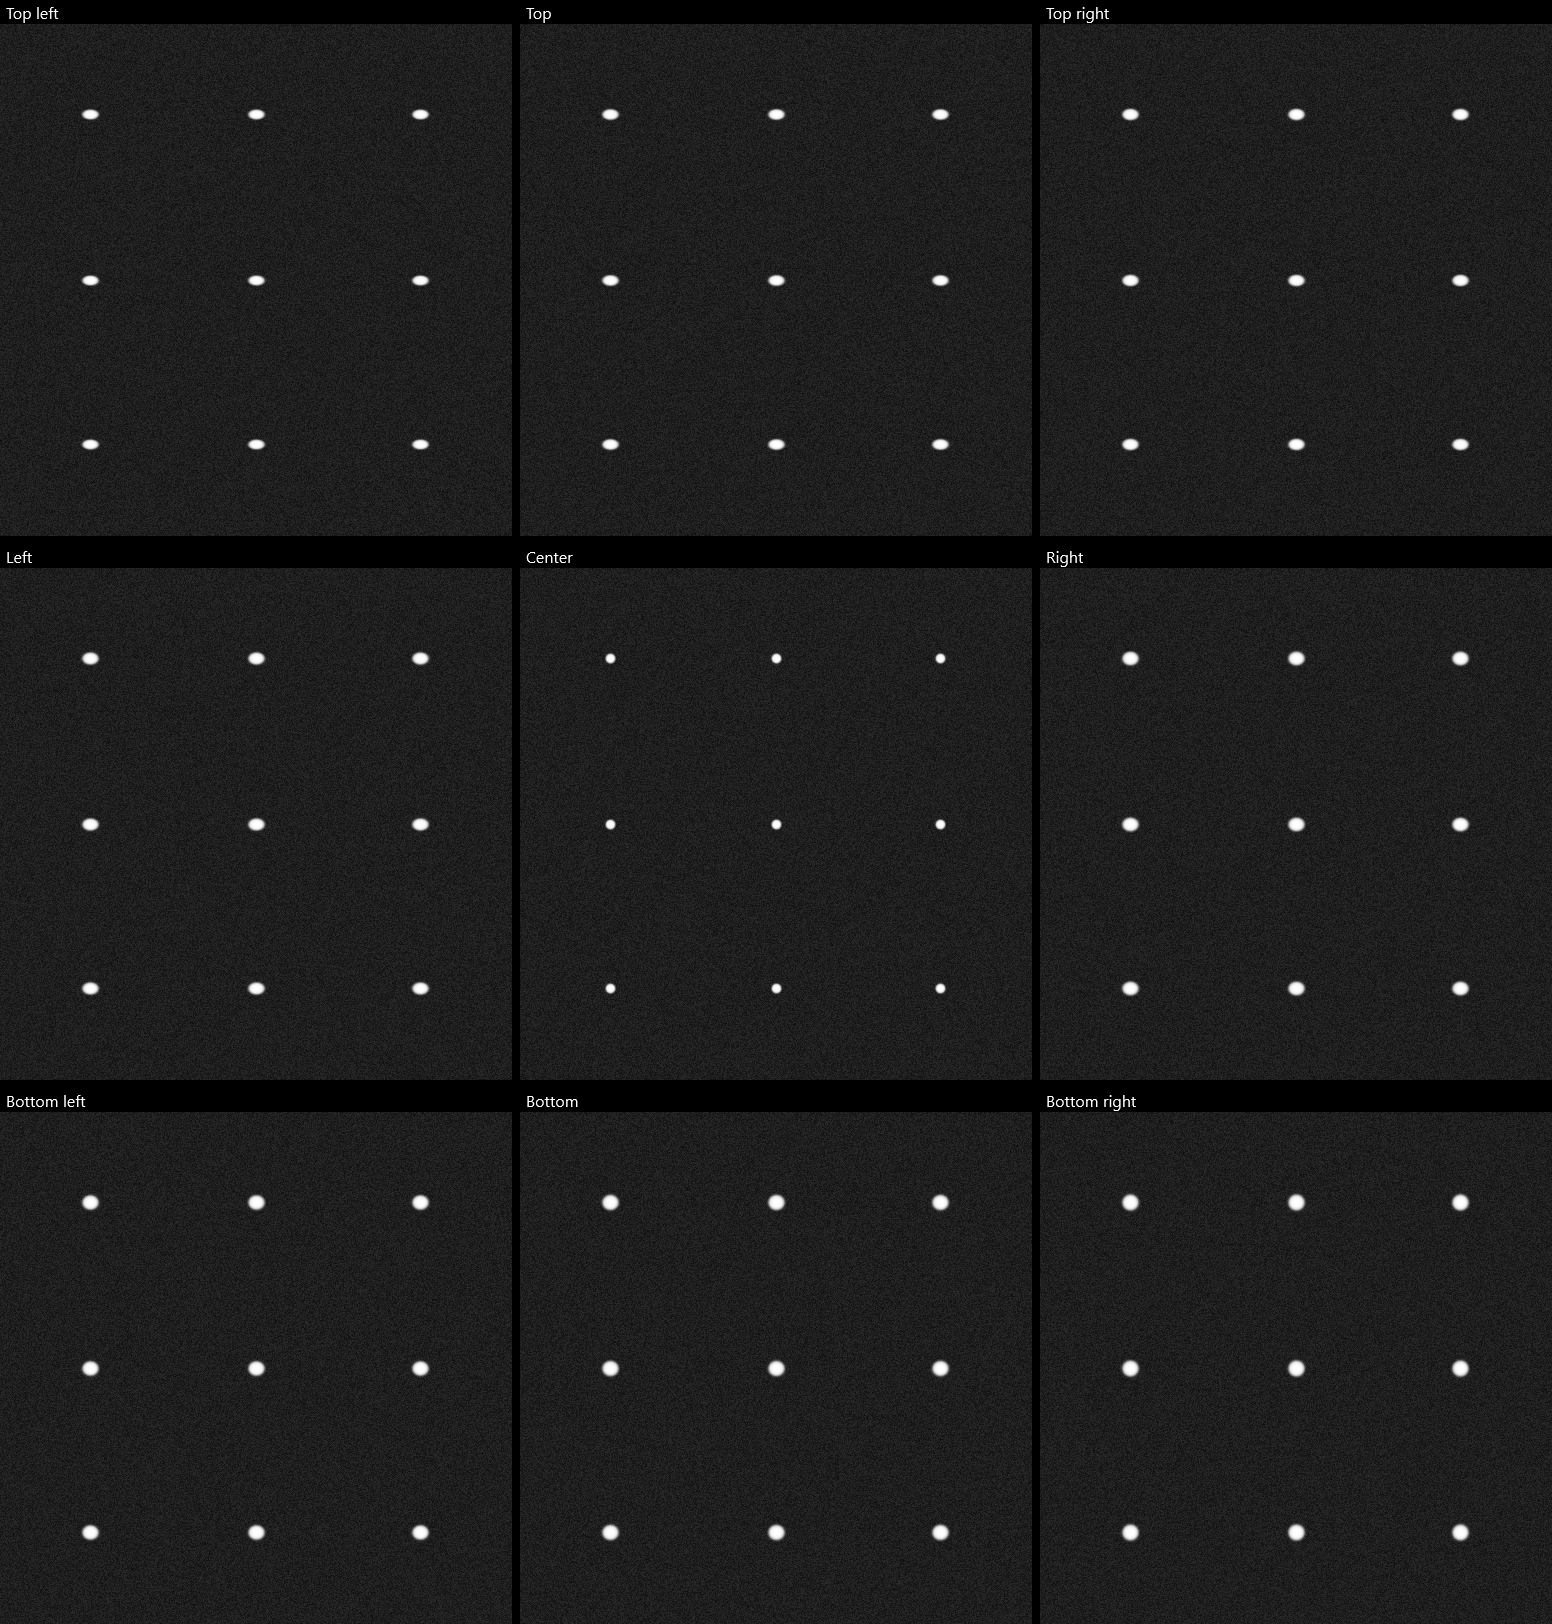
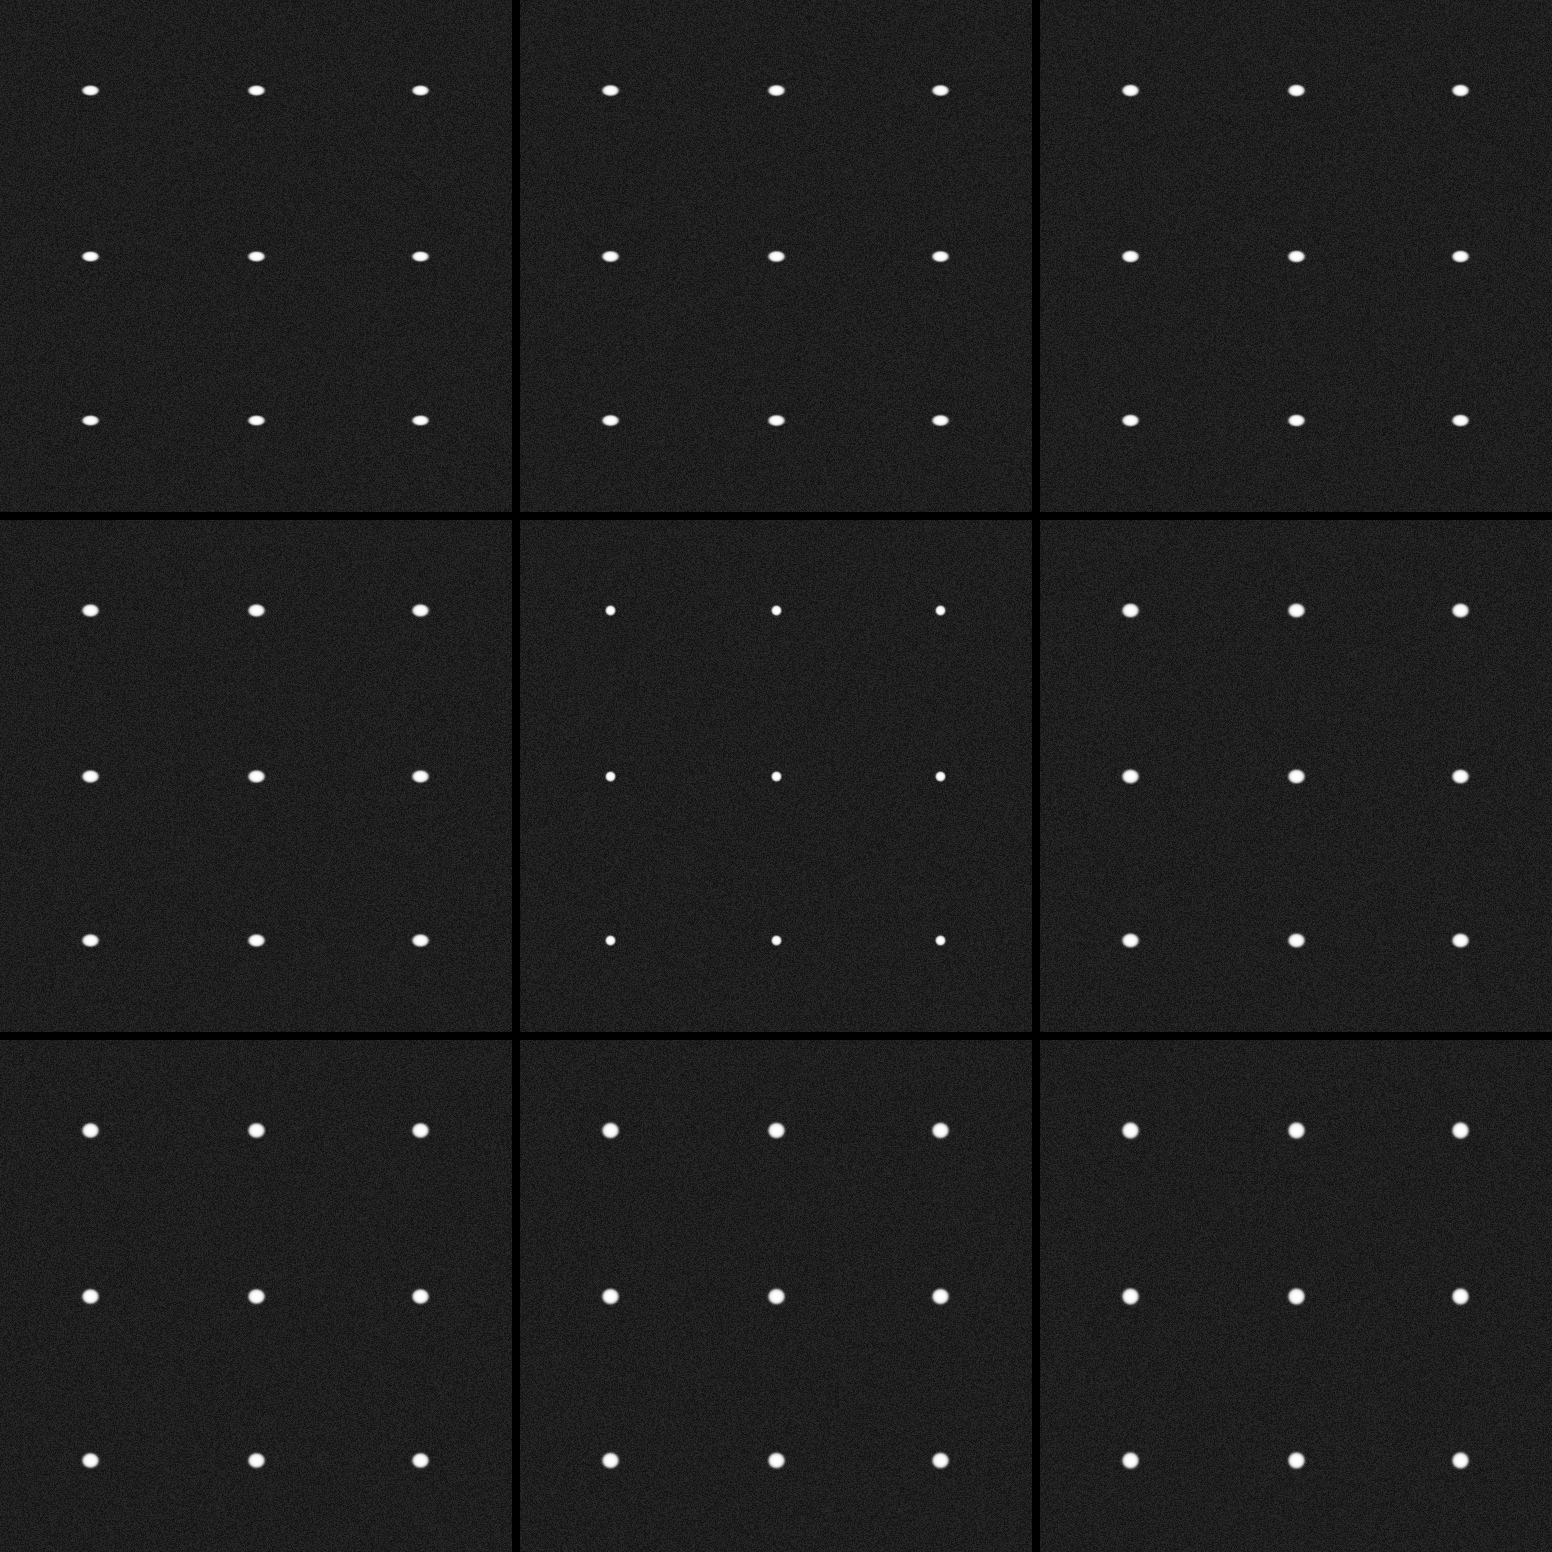
Remove inspector region labels and header space

diff --git a/Tools/FocusCenteringChecks/InspectorChecks.cs b/Tools/FocusCenteringChecks/InspectorChecks.cs
@@ -27,16 +27,16 @@ internal static partial class PreviewDisplayChecks
             var tile=plan.Tiles[i];int x=i%3*plan.Size,y=i/3*plan.Size;
             check(compact.Sample(y*compact.Width+x)==source.Sample(tile.Y*w+tile.X) &&
                 compact.Sample((y+plan.Size-1)*compact.Width+x+plan.Size-1)==source.Sample((tile.Y+plan.Size-1)*w+tile.X+plan.Size-1),
-                "Inspector tile "+tile.Label+" preserves original sensor pixels without resampling");
+                "Inspector tile "+i+" preserves original sensor pixels without resampling");
         }
         var common=FocusDisplayStretch.RenderRaw(compact);
         var display=FocusAberrationMosaic.Display(source,plan);
         check(plan.Tiles.Select((t,i)=>display[(t.DisplayY+100)*plan.Width+t.DisplayX+100]==common[(i/3*plan.Size+100)*compact.Width+i%3*plan.Size+100]).All(v=>v),
             "All nine tiles use a common automatic stretch instead of independent contrast estimates");
-        check(display.Take(plan.Width*FocusAberrationMosaic.Header).All(v=>v==0) && pixels.SequenceEqual(original),
-            "Mosaic labels and gutters do not enter stretch statistics or modify raw camera data");
+        check(Enumerable.Range(0,plan.Height).All(y=>display.Skip(y*plan.Width+plan.Size).Take(FocusAberrationMosaic.Gap).All(v=>v==0)) && pixels.SequenceEqual(original),
+            "Mosaic gutters do not enter stretch statistics or modify raw camera data");
         var large=FocusAberrationMosaic.Plan(9576,6388);
-        check(large.Size==512 && large.Width==1552 && large.Height==1624 && large.Tiles.All(t=>t.X+512<=9576 && t.Y+512<=6388),
+        check(large.Size==512 && large.Width==1552 && large.Height==1552 && large.Tiles.All(t=>t.X+512<=9576 && t.Y+512<=6388),
             "Full QHY600 sensor output remains bounded to nine 512-pixel crops and a small mosaic");
         using(var canceled=new CancellationTokenSource()) {
             canceled.Cancel();bool stopped=false;
@@ -54,22 +54,21 @@ internal static partial class PreviewDisplayChecks
             "Inspector labels sensor-center HFR and disables single-star Bahtinov overlay");
         var render=type.GetMethod("RenderAberrationPreview",BindingFlags.Instance|BindingFlags.NonPublic);
         var preview=(ImageSource)render.Invoke(vm,new object[]{source,null});
-        check(preview.IsFrozen && preview.Width==plan.Width && preview.Height==plan.Height && preview is DrawingImage drawing &&
-            InspectorDrawings(drawing.Drawing).OfType<GlyphRunDrawing>().Count()>=9,
-            "Nine region labels are included in the frozen inspector image");
+        check(preview.IsFrozen && preview.Width==plan.Width && preview.Height==plan.Height && preview is BitmapSource bitmap && bitmap.Format==PixelFormats.Gray8,
+            "Inspector is a compact square bitmap with no text overlays or label rows");
         foreach(string field in new[]{"assistRunning","liveImageOutputActive"})type.GetField(field,BindingFlags.Instance|BindingFlags.NonPublic).SetValue(vm,true);
         type.GetField("lastImageOutput",BindingFlags.Instance|BindingFlags.NonPublic).SetValue(vm,0L);
         type.GetProperty(nameof(vm.FocusPreviewImage)).SetValue(vm,preview);
         var published=output();
-        check(published.IsFrozen && published.PixelWidth==plan.Width && published.PixelHeight==plan.Height && published.Format==PixelFormats.Pbgra32,
-            "Main NINA Image receives the labeled mosaic dimensions, not a rasterized full-sensor image");
+        check(published.IsFrozen && published.PixelWidth==plan.Width && published.PixelHeight==plan.Height && published.Format==PixelFormats.Gray8 && ReferenceEquals(published,preview),
+            "Main NINA Image shares the inspector bitmap without extra overlay rasterization");
         vm.PreviewRoiPreset="50%";
         check(vm.IsAberrationInspector,"Inspector mode cannot change during live capture");
         type.GetProperty(nameof(vm.LiveHfr)).SetValue(vm,2.2);
         vm.PreviewStretchStrength=.5;await Task.Delay(300);
         check(!ReferenceEquals(vm.FocusPreviewImage,preview) && vm.FocusPreviewImage.Width==plan.Width && vm.FocusPreviewImage.Height==plan.Height &&
             vm.LiveHfr==2.2 && pixels.SequenceEqual(original),
-            "Inspector stretch rerenders only the mosaic, retains its labels and leaves HFR/raw data unchanged");
+            "Inspector stretch rerenders only the mosaic and leaves HFR/raw data unchanged");
         foreach(string field in new[]{"assistRunning","liveImageOutputActive"})type.GetField(field,BindingFlags.Instance|BindingFlags.NonPublic).SetValue(vm,false);
         vm.PreviewRoiPreset="512";
         check(!vm.IsAberrationInspector && vm.CanUseBahtinovOverlay && vm.PreviewRoiPreset=="512" && vm.PreviewCenterX==70 && vm.PreviewCenterY==30,
@@ -78,14 +77,6 @@ internal static partial class PreviewDisplayChecks
         vm.ResetPreviewStretchCommand.Execute(null);await Task.Delay(250);
         SaveInspectorExample(vm,render);
         await VerifyInspectorSingleCapture(check);
-    }
-
-    private static IEnumerable<Drawing> InspectorDrawings(Drawing drawing)
-    {
-        yield return drawing;
-        if(drawing is DrawingGroup group)
-            foreach(var child in group.Children)
-                foreach(var nested in InspectorDrawings(child))yield return nested;
     }
 
     private static void SaveInspectorExample(LiveFocusDockableVM vm,MethodInfo render)

diff --git a/Models/FocusAberrationMosaic.cs b/Models/FocusAberrationMosaic.cs
@@ -6,11 +6,9 @@ namespace Cwseo.NINA.LiveFocus.Models
     /// <summary>Nine unscaled sensor crops; only the displayed tiles are copied.</summary>
     public static class FocusAberrationMosaic
     {
-        public const int TileSize = 512, Header = 24, Gap = 8;
-        public readonly record struct Tile(string Label, int X, int Y, int DisplayX, int DisplayY);
+        public const int TileSize = 512, Gap = 8;
+        public readonly record struct Tile(int X, int Y, int DisplayX, int DisplayY);
         public sealed record Layout(int Size, int Width, int Height, Tile[] Tiles);
-        private static readonly string[] labels = {
-            "Top left", "Top", "Top right", "Left", "Center", "Right", "Bottom left", "Bottom", "Bottom right" };
 
         public static Layout Plan(int width, int height, int tileSize = TileSize)
         {
@@ -19,10 +17,10 @@ namespace Cwseo.NINA.LiveFocus.Models
             var tiles = new Tile[9];
             for (int row = 0; row < 3; row++)
                 for (int col = 0; col < 3; col++)
-                    tiles[row * 3 + col] = new Tile(labels[row * 3 + col],
+                    tiles[row * 3 + col] = new Tile(
                         col * (width - size) / 2, row * (height - size) / 2,
-                        col * (size + Gap), row * (size + Header + Gap) + Header);
-            return new Layout(size, size * 3 + Gap * 2, (size + Header) * 3 + Gap * 2, tiles);
+                        col * (size + Gap), row * (size + Gap));
+            return new Layout(size, size * 3 + Gap * 2, size * 3 + Gap * 2, tiles);
         }
 
         public static FocusRawFrame Extract(FocusRawFrame source, Layout layout, CancellationToken token = default)
@@ -44,7 +42,7 @@ namespace Cwseo.NINA.LiveFocus.Models
 
         public static byte[] Display(FocusRawFrame source, Layout layout, double strength = 1)
         {
-            // Stretch all nine scientific crops together. Headers and gutters do
+            // Stretch all nine scientific crops together. Gutters do
             // not bias background/noise estimation, and tiles keep one pixel scale.
             var bytes = FocusDisplayStretch.RenderRaw(Extract(source, layout), strength);
             var output = new byte[checked(layout.Width * layout.Height)];

diff --git a/Dockables/FocusInspector.cs b/Dockables/FocusInspector.cs
@@ -1,5 +1,3 @@
-using System.Globalization;
-using System.Windows;
 using System.Windows.Media;
 using System.Windows.Media.Imaging;
 using Cwseo.NINA.LiveFocus.Models;
@@ -29,23 +27,10 @@ namespace Cwseo.NINA.LiveFocus.Dockables
             var bytes = FocusAberrationMosaic.Display(source, layout, level);
             var bitmap = BitmapSource.Create(layout.Width, layout.Height, 96, 96, PixelFormats.Gray8, null, bytes, layout.Width);
             bitmap.Freeze();
-            var group = new DrawingGroup();
-            using (var drawing = group.Open())
-            {
-                drawing.DrawImage(bitmap, new Rect(0, 0, layout.Width, layout.Height));
-                foreach (var tile in layout.Tiles)
-                {
-                    var label = new FormattedText(tile.Label, CultureInfo.InvariantCulture, FlowDirection.LeftToRight,
-                        new Typeface("Segoe UI"), 16, Brushes.White, 1)
-                        { MaxTextWidth = System.Math.Max(1, layout.Size - 12), Trimming = TextTrimming.CharacterEllipsis };
-                    drawing.DrawText(label, new Point(tile.DisplayX + 6, tile.DisplayY - FocusAberrationMosaic.Header + 2));
-                }
-            }
-            var image = new DrawingImage(group); image.Freeze();
             // Keep the original ushort source for stretch changes, but publish
             // mosaic dimensions so the host never rasterizes a full sensor bitmap.
-            previewPixels.Add(image, new PreviewPixels(null, layout.Width, layout.Height, null, level, bitmap, source, Inspector: true));
-            return image;
+            previewPixels.Add(bitmap, new PreviewPixels(null, layout.Width, layout.Height, null, level, bitmap, source, Inspector: true));
+            return bitmap;
         }
     }
 }

diff --git a/Tools/FocusCenteringChecks/LiveMoveChecks.cs b/Tools/FocusCenteringChecks/LiveMoveChecks.cs
@@ -82,7 +82,7 @@ internal static class LiveMoveChecks {
         object Display(BitmapSource bitmap) {
             var plan=Cwseo.NINA.LiveFocus.Models.FocusAberrationMosaic.Plan(128,128);
             if(!bitmap.IsFrozen || bitmap.PixelWidth!=(inspector?plan.Width:128) || bitmap.PixelHeight!=(inspector?plan.Height:128) ||
-                inspector && bitmap.Format!=System.Windows.Media.PixelFormats.Pbgra32 || owner!=vm)
+                inspector && bitmap.Format!=System.Windows.Media.PixelFormats.Gray8 || owner!=vm)
                 throw new Exception("Main Image must receive a frozen ROI while Live Focus owns capture");
             Interlocked.Increment(ref imageWrites);
             if(vm.IsMoving)Interlocked.Increment(ref movingImageWrites);

diff --git a/Dockables/FocusImageOutput.cs b/Dockables/FocusImageOutput.cs
@@ -57,7 +57,7 @@ namespace Cwseo.NINA.LiveFocus.Dockables
             try
             {
                 BitmapSource image = raw.Bitmap;
-                if (raw.Inspector || raw.Overlay?.IsValid == true)
+                if (raw.Overlay?.IsValid == true)
                 {
                     var visual = new DrawingVisual();
                     using (var drawing = visual.RenderOpen())

diff --git a/README.md b/README.md
@@ -78,7 +78,7 @@ NINA supplies its own libraries; do not copy every dependency from the build dir
 3. Fold Setup, open NINA's **Image** panel, set exposure and press the video icon to start. Use In / Out to adjust focus while viewing the star and local HFR. Open NINA's **HFR History** panel to see live ROI measurements automatically. Movement Stop and target-move cancellation remain available with Setup folded.
 4. Adjust Stretch if the preview is too bright. Stop preview before changing exposure or ROI.
 
-For full-sensor star-shape comparison, stop preview and choose **Setup → Star area → ROI list → Inspector 3×3**, then start again. The nine labeled tiles are up to 512 × 512 pixels each, without resampling. Smaller sensors use smaller tiles. The camera acquires the full sensor, so download time remains the same as Full frame; only the nine tiles are copied and stretched for display. Focuser movement continues without restarting a native stream.
+For full-sensor star-shape comparison, stop preview and choose **Setup → Star area → ROI list → Inspector 3×3**, then start again. The nine tiles are up to 512 × 512 pixels each, without resampling. Smaller sensors use smaller tiles. The camera acquires the full sensor, so download time remains the same as Full frame; only the nine tiles are copied and stretched for display. Focuser movement continues without restarting a native stream.
 
 Inspector HFR and the optional star profile measure only the sensor-center 256-pixel window. The native HFR History trace is labeled **Live Focus HFR (sensor center)**; it is not a nine-region average or tilt fit. Bahtinov overlay is unavailable in Inspector. Choose a pixel or percentage preset to return to normal ROI with the previous star anchor. **Edit ROI** switches back after a successful overview capture; **Auto ROI** switches back after a successful selection. Changing display stretch never changes the source pixels.
 
@@ -124,7 +124,7 @@ dotnet run --project Tools/RoiInteractionChecks -c Release
 dotnet run --project Tools/FocusChecks -c Release
 ```
 
-The UI harness renders the actual dockable at sizes from 350 × 500 to 950 × 700 without opening NINA, checking folding, resizing and active-operation controls. It also renders NINA's real ImageView on a hidden WPF surface, checking ROI coordinate mapping, movement/resizing, cursors, zoom, rotation, flip and cleanup. Inspector checks cover original-pixel tile extraction, shared stretch, labels in main Image output, single-exposure fallback, mode switching and continuous focuser movement through generic/ASI streams. These checks verify workflow, cleanup and rendering; physical camera throughput and optical performance still need field testing.
+The UI harness renders the actual dockable at sizes from 350 × 500 to 950 × 700 without opening NINA, checking folding, resizing and active-operation controls. It also renders NINA's real ImageView on a hidden WPF surface, checking ROI coordinate mapping, movement/resizing, cursors, zoom, rotation, flip and cleanup. Inspector checks cover original-pixel tile extraction, shared stretch, compact main Image output, single-exposure fallback, mode switching and continuous focuser movement through generic/ASI streams. These checks verify workflow, cleanup and rendering; physical camera throughput and optical performance still need field testing.
 
 ## Origin and license
 
